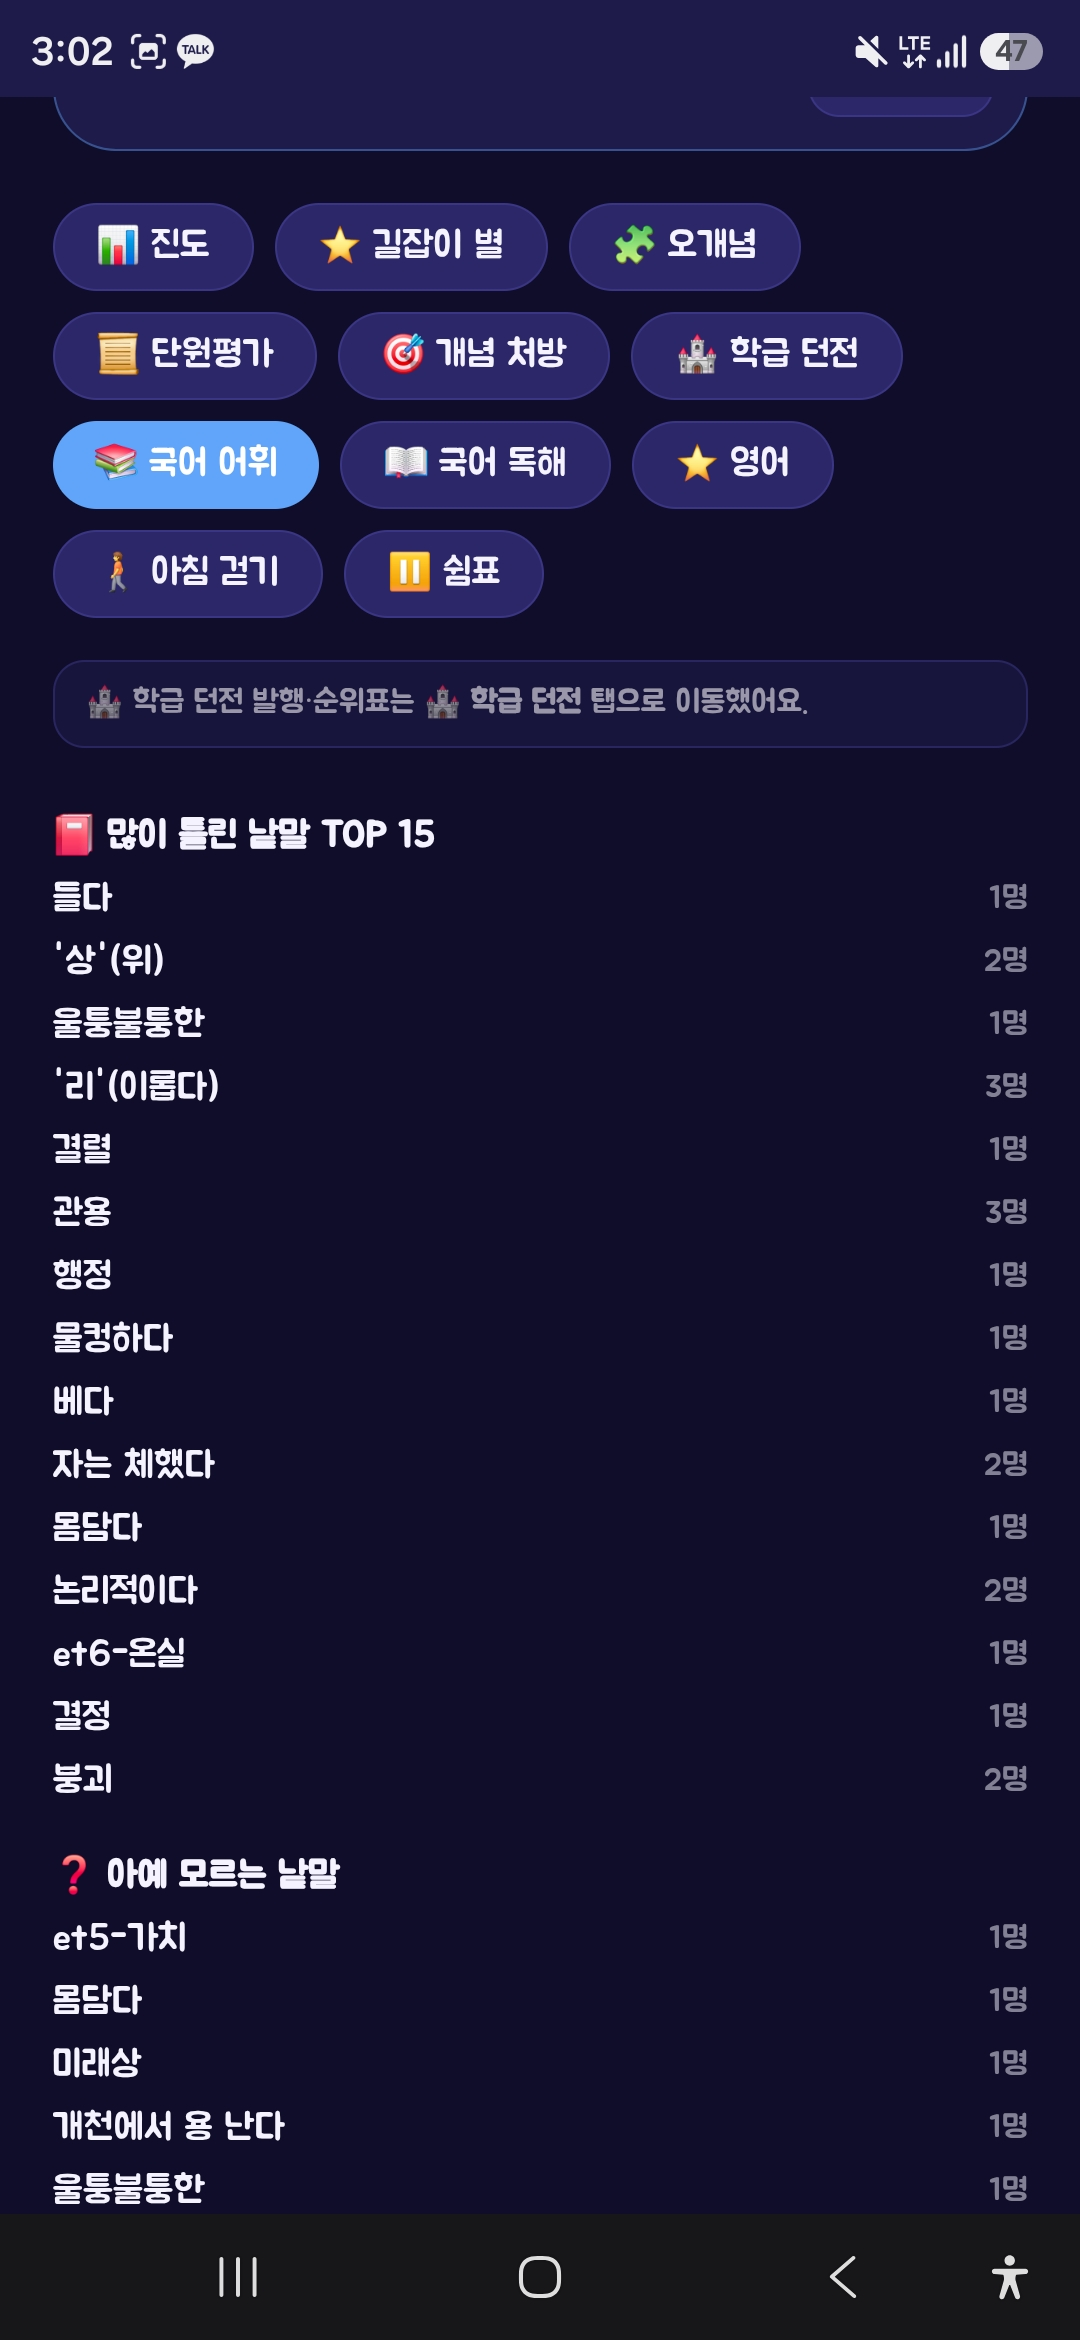
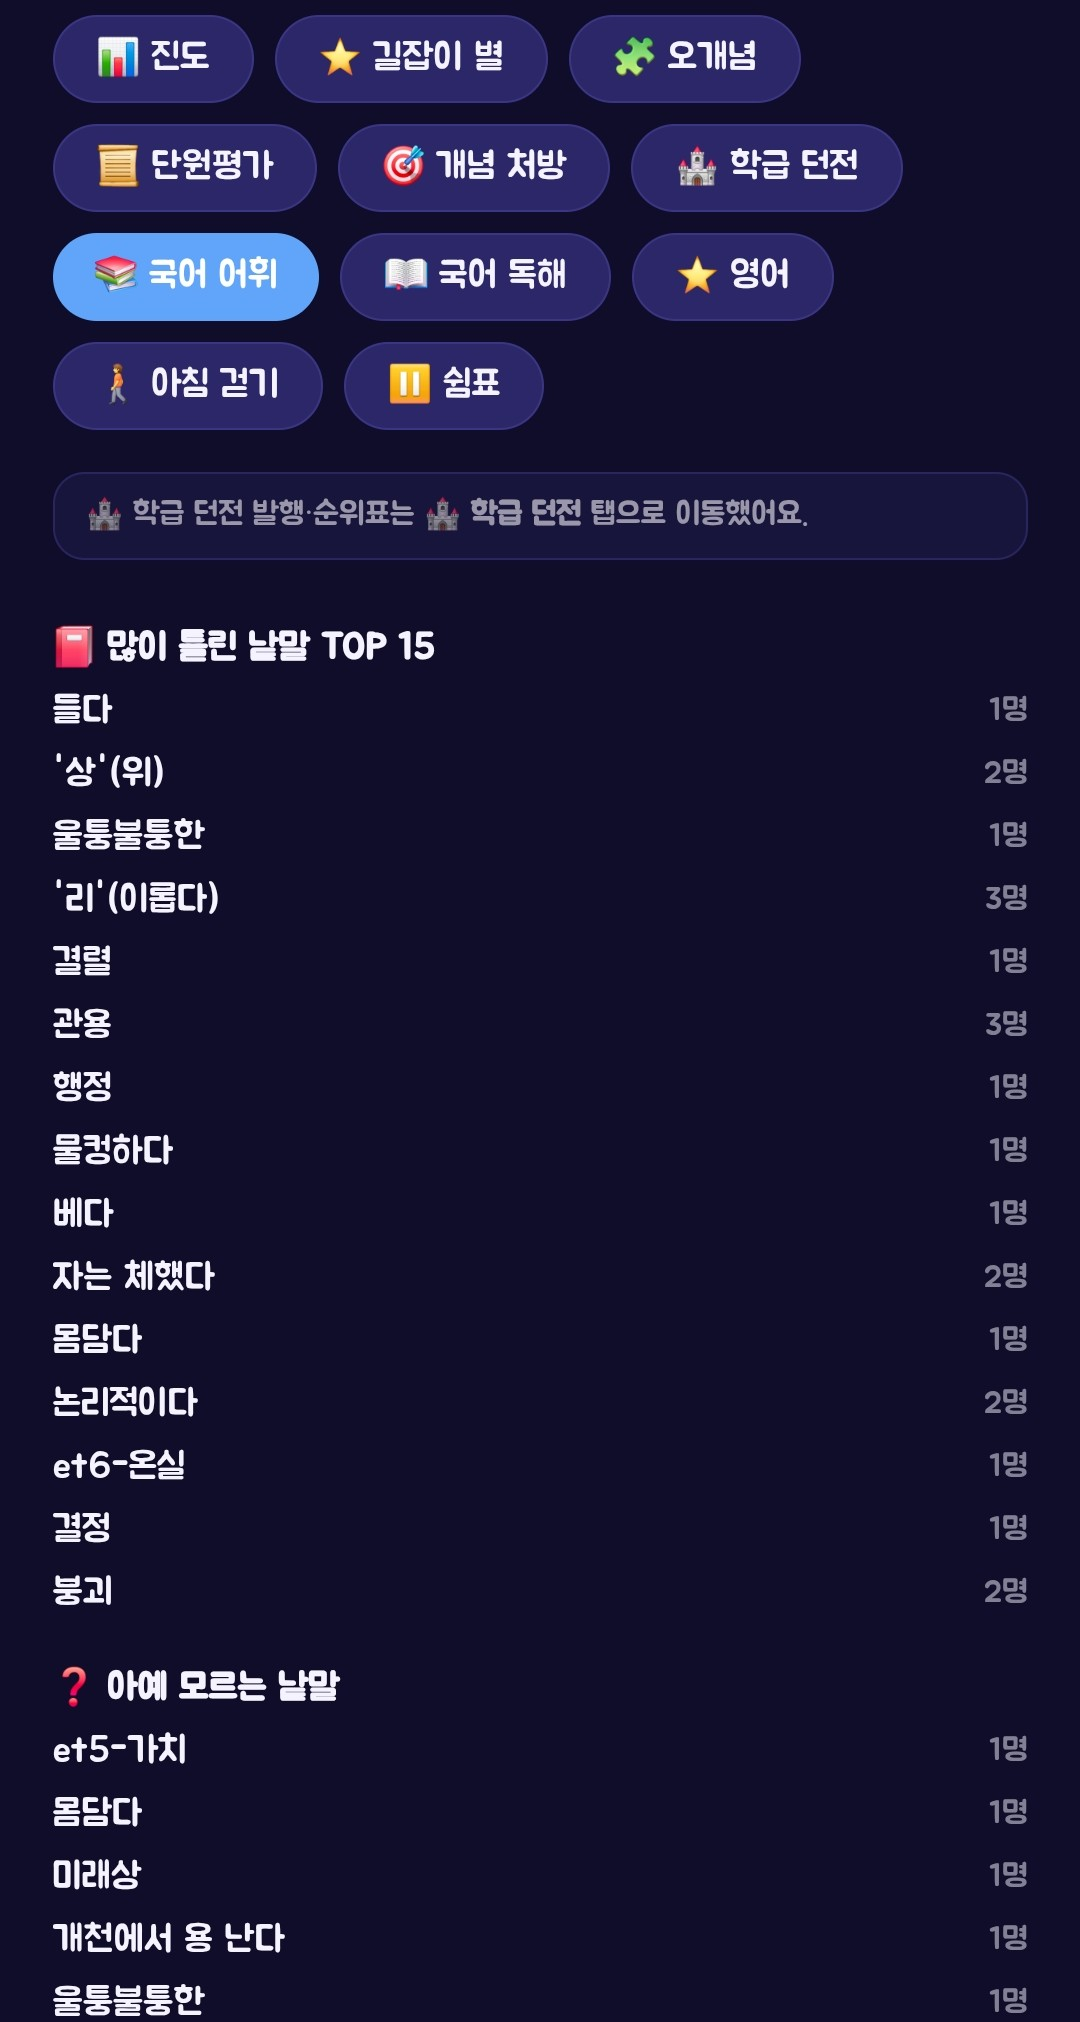
드라코니스 서비스 갤러리 확장

diff --git a/lab-data.js b/lab-data.js
@@ -151,13 +151,24 @@ window.labData = {
         { label: "서비스 체험", url: "https://draconis.up.railway.app/" }
       ],
       url: "https://draconis.up.railway.app/",
-      image: "./assets/draconis-cover.png",
-      imageDisplay: "portrait",
+      image: null,
+      hideMedia: true,
+      galleryLayout: "grid",
+      galleryNote: {
+        label: "CLA 기반 단계별 풀이",
+        title: "정답만 보여주지 않고, 생각의 단계를 따라가도록",
+        body: "학생이 오답을 냈을 때 문제 파악 → 계산 과정 → 최종 확인이 차례로 열립니다. 정답보다 스스로 다시 이해하고 도전하는 과정을 돕습니다."
+      },
       gallery: [
         {
           src: "./assets/draconis-learning-home.png",
           alt: "드라코니스 학습 모험 홈 화면",
           caption: "학습 모험 홈"
+        },
+        {
+          src: "./assets/draconis-world-card.png",
+          alt: "드라코니스 세계관을 보여 주는 드래곤 카드",
+          caption: "드라코니스 세계관"
         },
         {
           src: "./assets/draconis-school-overview.jpg",
@@ -170,24 +181,122 @@ window.labData = {
           caption: "과목별 학습 통계"
         },
         {
-          src: "./assets/draconis-misconceptions.jpg",
-          alt: "드라코니스 학생별 오개념 분석 화면",
-          caption: "학생별 오개념 분석"
-        },
-        {
           src: "./assets/draconis-learning-tools.jpg",
           alt: "드라코니스 학습 도구 화면",
           caption: "학습 도구"
         },
         {
-          src: "./assets/draconis-learning-analysis.jpg",
-          alt: "드라코니스 학습 분석 화면",
-          caption: "학습 분석"
+          src: "./assets/draconis-analysis-overview.jpg",
+          alt: "드라코니스 문항 유형과 주제별 학습 분석 화면",
+          caption: "문항·주제별 학습 분석"
         },
         {
-          src: "./assets/draconis-teacher-errors.jpg",
-          alt: "드라코니스 교사용 오개념 처방 화면",
+          src: "./assets/draconis-misconceptions-private.jpg",
+          alt: "학생 식별 정보를 가린 드라코니스 학생별 오개념 분석 화면",
+          caption: "학생별 오개념 분석"
+        },
+        {
+          src: "./assets/draconis-teacher-errors-private.jpg",
+          alt: "학급 정보를 가린 드라코니스 교사용 오개념 처방 화면",
           caption: "교사용 오개념 처방"
+        },
+        {
+          src: "./assets/draconis-math-fractions.jpg",
+          alt: "드라코니스 분수의 덧셈과 뺄셈 문제 화면",
+          caption: "수학 · 분수 연산"
+        },
+        {
+          src: "./assets/draconis-math-graph.jpg",
+          alt: "드라코니스 꺾은선그래프 문제 화면",
+          caption: "수학 · 그래프 해석"
+        },
+        {
+          src: "./assets/draconis-math-division.jpg",
+          alt: "드라코니스 나눗셈과 분수 문제 화면",
+          caption: "수학 · 나눗셈"
+        },
+        {
+          src: "./assets/draconis-math-ratio.jpg",
+          alt: "드라코니스 비례식과 비례배분 문제 화면",
+          caption: "수학 · 비례식"
+        },
+        {
+          src: "./assets/draconis-cla-problem.jpg",
+          alt: "드라코니스 CLA 풀이의 문제 파악 단계 화면",
+          caption: "CLA 1단계 · 문제 파악",
+          highlight: true
+        },
+        {
+          src: "./assets/draconis-cla-calculation.jpg",
+          alt: "드라코니스 CLA 풀이의 계산 과정 단계 화면",
+          caption: "CLA 2단계 · 계산 과정",
+          highlight: true
+        },
+        {
+          src: "./assets/draconis-cla-solution.jpg",
+          alt: "드라코니스 CLA 풀이의 최종 확인 단계 화면",
+          caption: "CLA 3단계 · 최종 확인",
+          highlight: true
+        },
+        {
+          src: "./assets/draconis-korean-hub.jpg",
+          alt: "드라코니스 국어 달의 미궁 학습 화면",
+          caption: "국어 · 달의 미궁"
+        },
+        {
+          src: "./assets/draconis-vocabulary-question.jpg",
+          alt: "드라코니스 어휘 던전 문제 화면",
+          caption: "국어 · 어휘 던전"
+        },
+        {
+          src: "./assets/draconis-dungeon-map.jpg",
+          alt: "드라코니스 어휘 던전 탐험 지도 화면",
+          caption: "국어 · 던전 탐험"
+        },
+        {
+          src: "./assets/draconis-reading-hub.jpg",
+          alt: "드라코니스 비문학 독해 학습 화면",
+          caption: "국어 · 비문학 독해"
+        },
+        {
+          src: "./assets/draconis-reading-passage.jpg",
+          alt: "드라코니스 읽기 자료 오답이라는 이름의 데이터 화면",
+          caption: "국어 · 읽기 자료"
+        },
+        {
+          src: "./assets/draconis-reading-question.jpg",
+          alt: "드라코니스 읽기 자료 확인 문제 화면",
+          caption: "국어 · 독해 문제"
+        },
+        {
+          src: "./assets/draconis-reading-feedback.jpg",
+          alt: "드라코니스 국어 독해 정답과 해설 화면",
+          caption: "국어 · 독해 피드백"
+        },
+        {
+          src: "./assets/draconis-english-listening.jpg",
+          alt: "드라코니스 영어 듣고 고르기 문제 화면",
+          caption: "영어 · 듣기"
+        },
+        {
+          src: "./assets/draconis-english-vocabulary.jpg",
+          alt: "드라코니스 영어 낱말 고르기 문제 화면",
+          caption: "영어 · 낱말"
+        },
+        {
+          src: "./assets/draconis-english-sentence.jpg",
+          alt: "드라코니스 영어 문장 순서 학습 화면",
+          caption: "영어 · 문장 만들기"
+        },
+        {
+          src: "./assets/draconis-exercise.jpg",
+          alt: "드라코니스 운동 활동 지원 화면",
+          caption: "생활 · 운동 활동"
+        },
+        {
+          src: "./assets/draconis-dragon-growth.jpg",
+          alt: "드라코니스 나의 드래곤 성장 화면",
+          caption: "성장 · 나의 드래곤"
         }
       ],
       video: null,

diff --git a/lab.html b/lab.html
@@ -238,6 +238,19 @@
   .lab-gallery-head{display:flex;align-items:center;justify-content:space-between;gap:10px;margin-bottom:8px}
   .lab-gallery-head strong{font-size:13px;color:var(--navy)}
   .lab-gallery-head span{font-size:11.5px;color:var(--sub)}
+  .lab-gallery-note{
+    margin-bottom:12px;padding:12px 13px;border-left:4px solid var(--gold);
+    background:#FBF7EB;color:#293842;
+  }
+  .lab-gallery-note > span{
+    display:block;margin-bottom:4px;color:var(--gold);font-size:11.5px;font-weight:800;
+  }
+  .lab-gallery-note > strong{
+    display:block;color:var(--navy);font-size:14px;line-height:1.45;word-break:keep-all;
+  }
+  .lab-gallery-note > p{
+    margin-top:4px;color:#4A565E;font-size:12.5px;line-height:1.65;word-break:keep-all;
+  }
   .lab-gallery-strip{
     display:flex;gap:8px;overflow-x:auto;overscroll-behavior-inline:contain;
     padding:1px 1px 7px;scrollbar-width:thin;
@@ -257,6 +270,24 @@
   }
   .lab-gallery-thumb:hover{border-color:var(--steel)}
   .lab-gallery-thumb:focus-visible{outline:2px solid var(--steel);outline-offset:2px}
+  .lab-gallery.is-grid .lab-gallery-strip{
+    display:grid;grid-template-columns:repeat(2,minmax(0,1fr));
+    gap:9px;overflow:visible;padding:1px;
+  }
+  .lab-gallery.is-grid .lab-gallery-thumb{
+    width:auto;min-width:0;display:flex;flex-direction:column;
+  }
+  .lab-gallery.is-grid .lab-gallery-thumb img{
+    height:auto;aspect-ratio:3/4;object-fit:cover;object-position:50% 0;
+  }
+  .lab-gallery.is-grid .lab-gallery-thumb span{
+    flex:1;min-height:46px;padding:7px;font-size:11px;
+  }
+  .lab-gallery-thumb.is-highlight{
+    border:2px solid var(--gold);background:#FFF9E8;
+    box-shadow:0 0 0 2px rgba(154,123,51,.1);
+  }
+  .lab-gallery-thumb.is-highlight span{color:#6D541A}
   .lab-gallery-dialog{
     width:min(900px,calc(100% - 24px));max-width:900px;margin:auto;padding:0;border:0;
     border-radius:8px;background:transparent;color:var(--ink);
@@ -387,6 +418,27 @@
     .lab-feature-card.is-primary .lab-feature-body p{font-size:14.5px;line-height:1.76}
     .lab-feature-card.is-primary .lab-gallery-thumb{flex-basis:82px;width:82px}
     .lab-feature-card.is-primary .lab-gallery-thumb img{height:96px}
+    .lab-feature-card.is-primary.has-no-media{display:block}
+    .lab-feature-card.is-primary.has-no-media .lab-feature-body{width:100%}
+    .lab-feature-card.is-primary .lab-gallery.is-grid .lab-gallery-strip{
+      grid-template-columns:repeat(6,minmax(0,1fr));gap:11px;
+    }
+    .lab-feature-card.is-primary .lab-gallery.is-grid .lab-gallery-thumb{
+      flex-basis:auto;width:auto;
+    }
+    .lab-feature-card.is-primary .lab-gallery.is-grid .lab-gallery-thumb img{
+      height:auto;aspect-ratio:3/4;
+    }
+    .lab-feature-card.is-primary .lab-gallery.is-grid .lab-gallery-thumb span{
+      min-height:50px;padding:8px;font-size:11.5px;
+    }
+    .lab-feature-card.is-primary .lab-gallery-note{
+      display:grid;grid-template-columns:150px minmax(0,1fr);column-gap:14px;
+      padding:14px 16px;
+    }
+    .lab-feature-card.is-primary .lab-gallery-note > span{grid-row:1 / 3;margin:1px 0 0}
+    .lab-feature-card.is-primary .lab-gallery-note > strong{font-size:15px}
+    .lab-feature-card.is-primary .lab-gallery-note > p{font-size:13px}
     .lab-feature-body{display:flex;flex:1;flex-direction:column;padding:18px}
     .lab-feature-body .lab-link-row{margin-top:auto!important;padding-top:14px}
     .lab-media-placeholder{min-height:150px}

diff --git a/lab-page.js b/lab-page.js
@@ -45,6 +45,7 @@
   }
 
   function mediaMarkup(project) {
+    if (project.hideMedia) return "";
     if (project.image) {
       const imageClassMap = {
         portrait: "is-portrait",
@@ -66,16 +67,24 @@
 
   function galleryMarkup(project) {
     if (!project.gallery?.length) return "";
+    const galleryClass = project.galleryLayout === "grid" ? " is-grid" : "";
     return `
-      <div class="lab-gallery" aria-label="${escapeHtml(project.name)} 화면 갤러리">
+      <div class="lab-gallery${galleryClass}" aria-label="${escapeHtml(project.name)} 화면 갤러리">
         <div class="lab-gallery-head">
           <strong>화면 갤러리</strong>
           <span>${project.gallery.length}장</span>
         </div>
+        ${project.galleryNote ? `
+          <div class="lab-gallery-note">
+            <span>${escapeHtml(project.galleryNote.label)}</span>
+            <strong>${escapeHtml(project.galleryNote.title)}</strong>
+            <p>${escapeHtml(project.galleryNote.body)}</p>
+          </div>
+        ` : ""}
         <div class="lab-gallery-strip">
           ${project.gallery.map((image, index) => `
             <button
-              class="lab-gallery-thumb"
+              class="lab-gallery-thumb${image.highlight ? " is-highlight" : ""}"
               type="button"
               data-project-id="${escapeHtml(project.id)}"
               data-gallery-index="${index}"
@@ -110,7 +119,7 @@
     .map((id) => projects.find((project) => project.id === id))
     .filter(Boolean)
     .map((project) => `
-      <section class="lab-feature-card${project.id === "draconis" ? " is-primary" : ""}" data-project-id="${escapeHtml(project.id)}" aria-label="${escapeHtml(project.name)} 대표 서비스">
+      <section class="lab-feature-card${project.id === "draconis" ? " is-primary" : ""}${project.hideMedia ? " has-no-media" : ""}" data-project-id="${escapeHtml(project.id)}" aria-label="${escapeHtml(project.name)} 대표 서비스">
         ${mediaMarkup(project)}
         <div class="lab-feature-body">
           <div class="lab-card-head">
